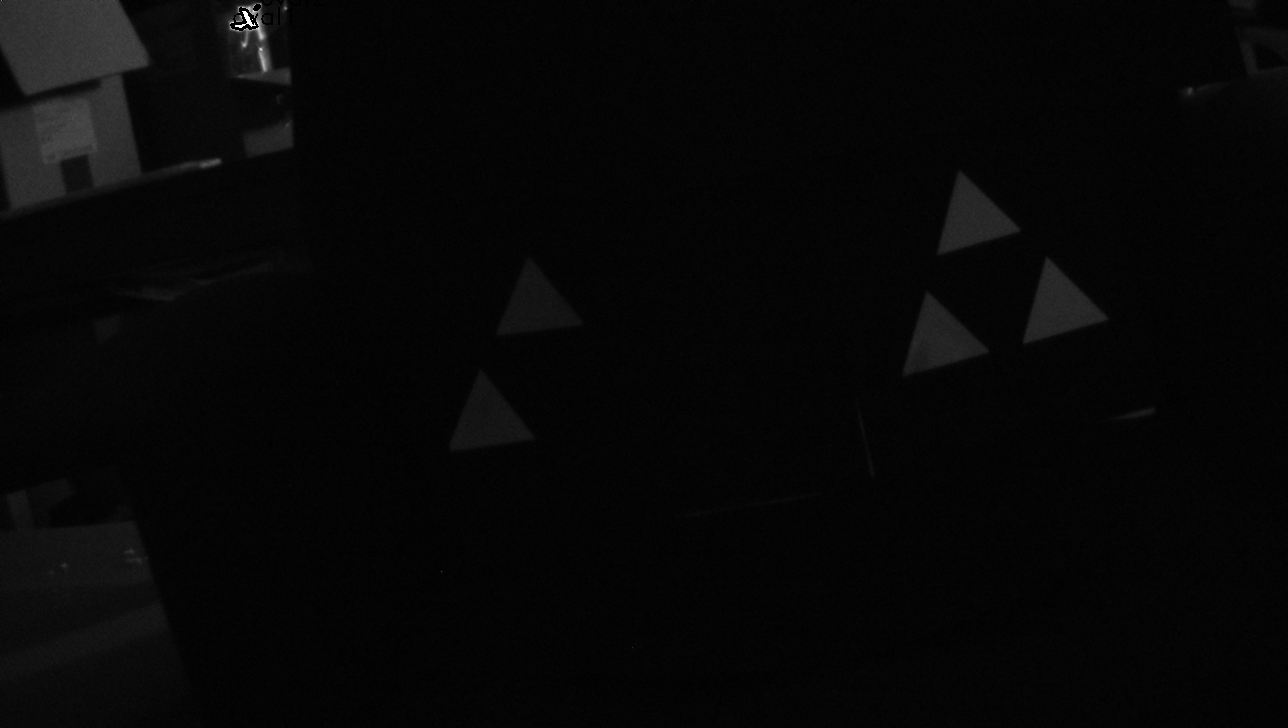
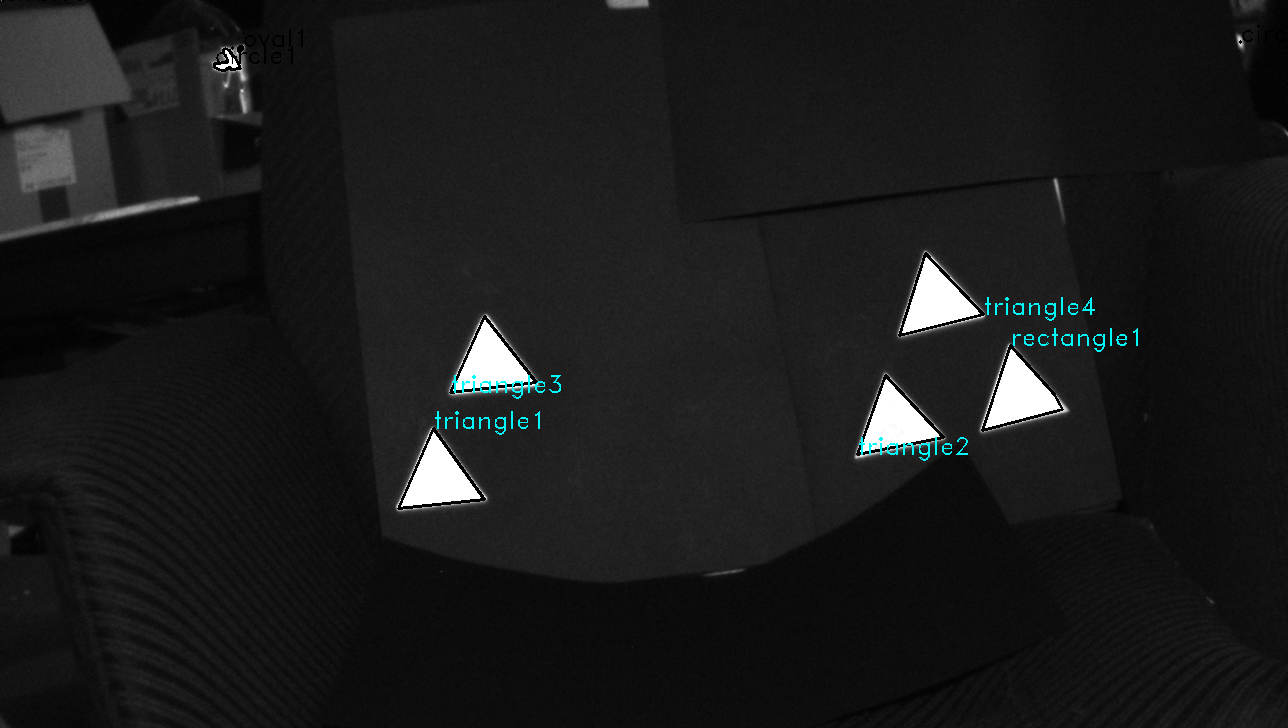
TMの識別を実装

diff --git a/pattern_discern_library/pattern_discern_test1.py b/pattern_discern_library/pattern_discern_test1.py
@@ -5,21 +5,23 @@ import matplotlib.pyplot as plt
 # ファイルを読み込み グレースケール化
 # img = cv2.imread("shapes.png", cv2.IMREAD_GRAYSCALE)
 # img = cv2.imread("triangle_test3.png", cv2.IMREAD_GRAYSCALE)
-img = cv2.imread("../../flycapture_test/fc2_save210209_2021-02-09-205407-0368.pgm", cv2.IMREAD_GRAYSCALE)
+img = cv2.imread("flycapture_test/210209success/20305900-2021-02-09-203050.pgm", cv2.IMREAD_GRAYSCALE)
 # plt.figure(figsize=(10, 10))
 # img2 = img[:,:,::-1]
 # plt.xticks([]), plt.yticks([])
-plt.imshow(img)
+img_plt = cv2.cvtColor(img, cv2.COLOR_BGR2RGB)
+plt.imshow(img_plt)
 plt.show()
 
 # cv2.imshow('output_shapes.png', img)
 # しきい値指定によるフィルタリング
 # _, threshold = cv2.threshold(img, 240, 255, cv2.THRESH_BINARY)
-_, threshold = cv2.threshold(img, 240, 255, cv2.THRESH_BINARY)
+_, threshold = cv2.threshold(img, 230, 255, cv2.THRESH_BINARY)
 
 # 輪郭を抽出
 # _, contours, _ = cv2.findContours(threshold, cv2.RETR_TREE, cv2.CHAIN_APPROX_SIMPLE)
-contours, _ = cv2.findContours(threshold, cv2.RETR_TREE, cv2.CHAIN_APPROX_SIMPLE)
+# contours, _ = cv2.findContours(threshold, cv2.RETR_TREE, cv2.CHAIN_APPROX_SIMPLE)
+contours, _ = cv2.findContours(threshold, cv2.RETR_TREE, cv2.CHAIN_APPROX_NONE)
 
 font = cv2.FONT_HERSHEY_DUPLEX
 
@@ -30,20 +32,29 @@ pentagon = 0
 oval = 0
 circle = 0
 
+centers = []
+lencenterlist = []
 # 図形の設定
+img = cv2.cvtColor(img, cv2.COLOR_GRAY2BGR)
 for cnt in contours:
+    print(cnt.T)
     approx = cv2.approxPolyDP(cnt, 0.01 * cv2.arcLength(cnt, True), True)
     cv2.drawContours(img, [approx], 0, (0), 2)
     x = approx.ravel()[0]
     y = approx.ravel()[1]
+    cx = int(np.mean(cnt.T[0]))
+    cy = int(np.mean(cnt.T[1]))
+    print([cnt.T[0], y])
+    centers.append(np.array([cx, cy]))
+    lencenterlist.append(len(cnt.T[0][0]))
 
     if len(approx) == 3:
         triangle += 1
-        cv2.putText(img, "triangle{}".format(triangle), (x, y), font, 0.8, (0))
+        cv2.putText(img, "triangle{}".format(triangle), (x, y), font, 0.8, (250, 250, 0))
 
     elif len(approx) == 4:
         rectangle += 1
-        cv2.putText(img, "rectangle{}".format(rectangle), (x, y), font, 0.8, (0))
+        cv2.putText(img, "rectangle{}".format(rectangle), (x, y), font, 0.8, (250, 250, 0))
 
     elif len(approx) == 5:
         pentagon += 1
@@ -56,9 +67,44 @@ for cnt in contours:
     else:
         circle += 1
         cv2.putText(img, "circle{}".format(circle), (x, y), font, 0.8, (0))
-
 # 結果の画像作成
 cv2.imwrite('output_shapes.png', img)
+lencenterlist = np.argsort(lencenterlist)[::-1]
+centerlist = []
+for i in range(len(lencenterlist)):
+    centerlist.append(centers[lencenterlist[i]])
+print(centerlist)
+print(lencenterlist)
+# マーカーの識別
+# まずは組み合わせを作る
+# 本当は領域の大きい順に並び変えるべき
+Conbination = []
+for i in range(5):
+    for j in range(i):
+        conc = []
+        conb = [i, j]
+        for k in range(5):
+            if k not in conb:
+                conc.append(k)
+        Conbination.append([conb, conc])
+
+print(Conbination)
+Flist = []
+for i in range(len(Conbination)):
+    F = np.linalg.norm(centerlist[Conbination[i][0][0]] - centerlist[Conbination[i][0][1]]) ** 2 + np.linalg.norm(centerlist[Conbination[i][1][0]] - centerlist[Conbination[i][1][1]]) ** 2 + np.linalg.norm(centerlist[Conbination[i][1][0]] - centerlist[Conbination[i][1][2]]) ** 2 + np.linalg.norm(centerlist[Conbination[i][1][1]] - centerlist[Conbination[i][1][2]]) ** 2
+    Flist.append(F)
+    print(F)
+
+minindex = np.argmin(Flist)
+minconb = Conbination[minindex]
+print(minconb)
+
+print(centerlist)
+cv2.circle(img, (centerlist[minconb[0][0]][0], centerlist[minconb[0][0]][1]), 10, (200, 0, 0), thickness=-1)
+cv2.circle(img, (centerlist[minconb[0][1]][0], centerlist[minconb[0][1]][1]), 10, (200, 0, 0), thickness=-1)
+cv2.circle(img, (centerlist[minconb[1][0]][0], centerlist[minconb[1][0]][1]), 10, (0, 0, 200), thickness=-1)
+cv2.circle(img, (centerlist[minconb[1][1]][0], centerlist[minconb[1][1]][1]), 10, (0, 0, 200), thickness=-1)
+cv2.circle(img, (centerlist[minconb[1][2]][0], centerlist[minconb[1][2]][1]), 10, (0, 0, 200), thickness=-1)
 
 # 図形の数の結果
 print('Number of triangle = ', triangle)
